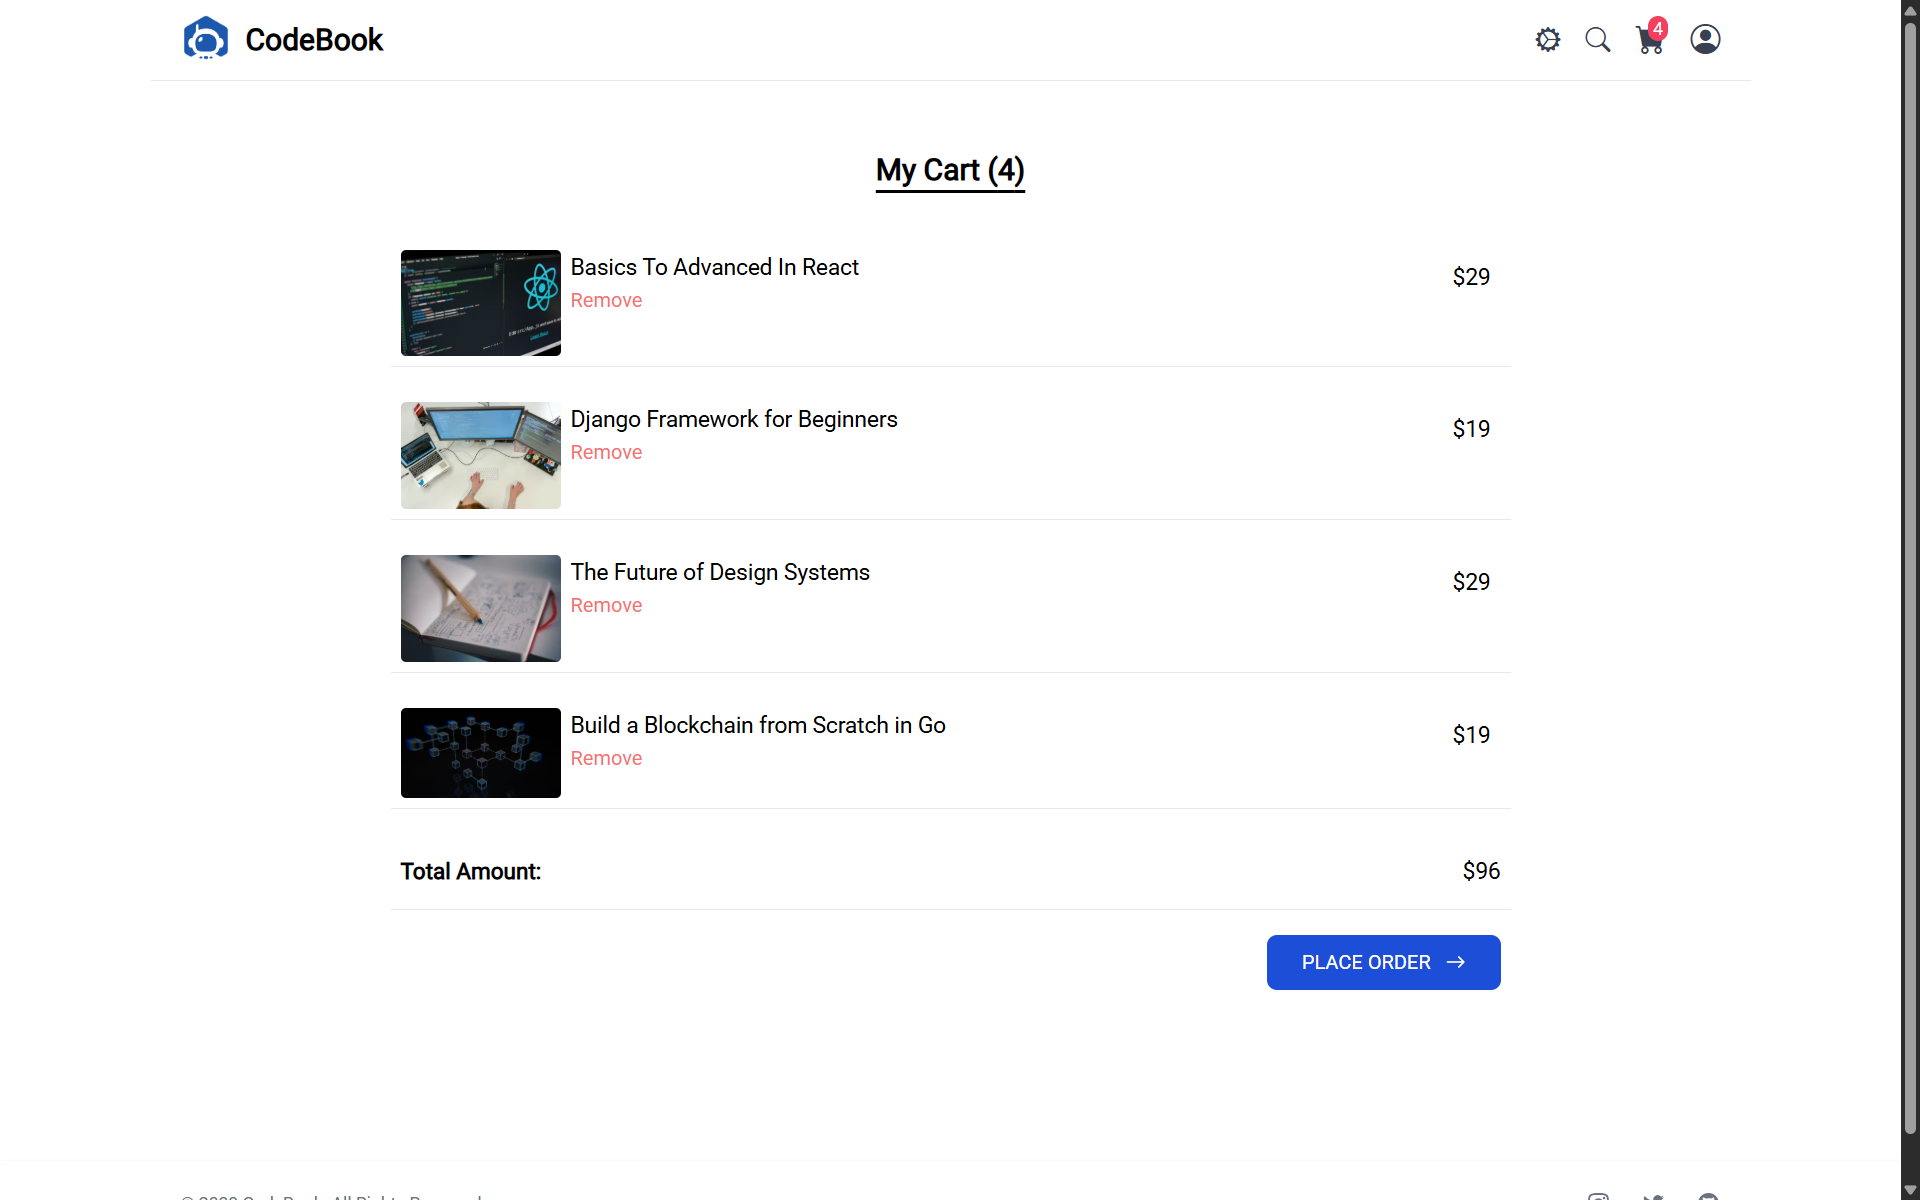
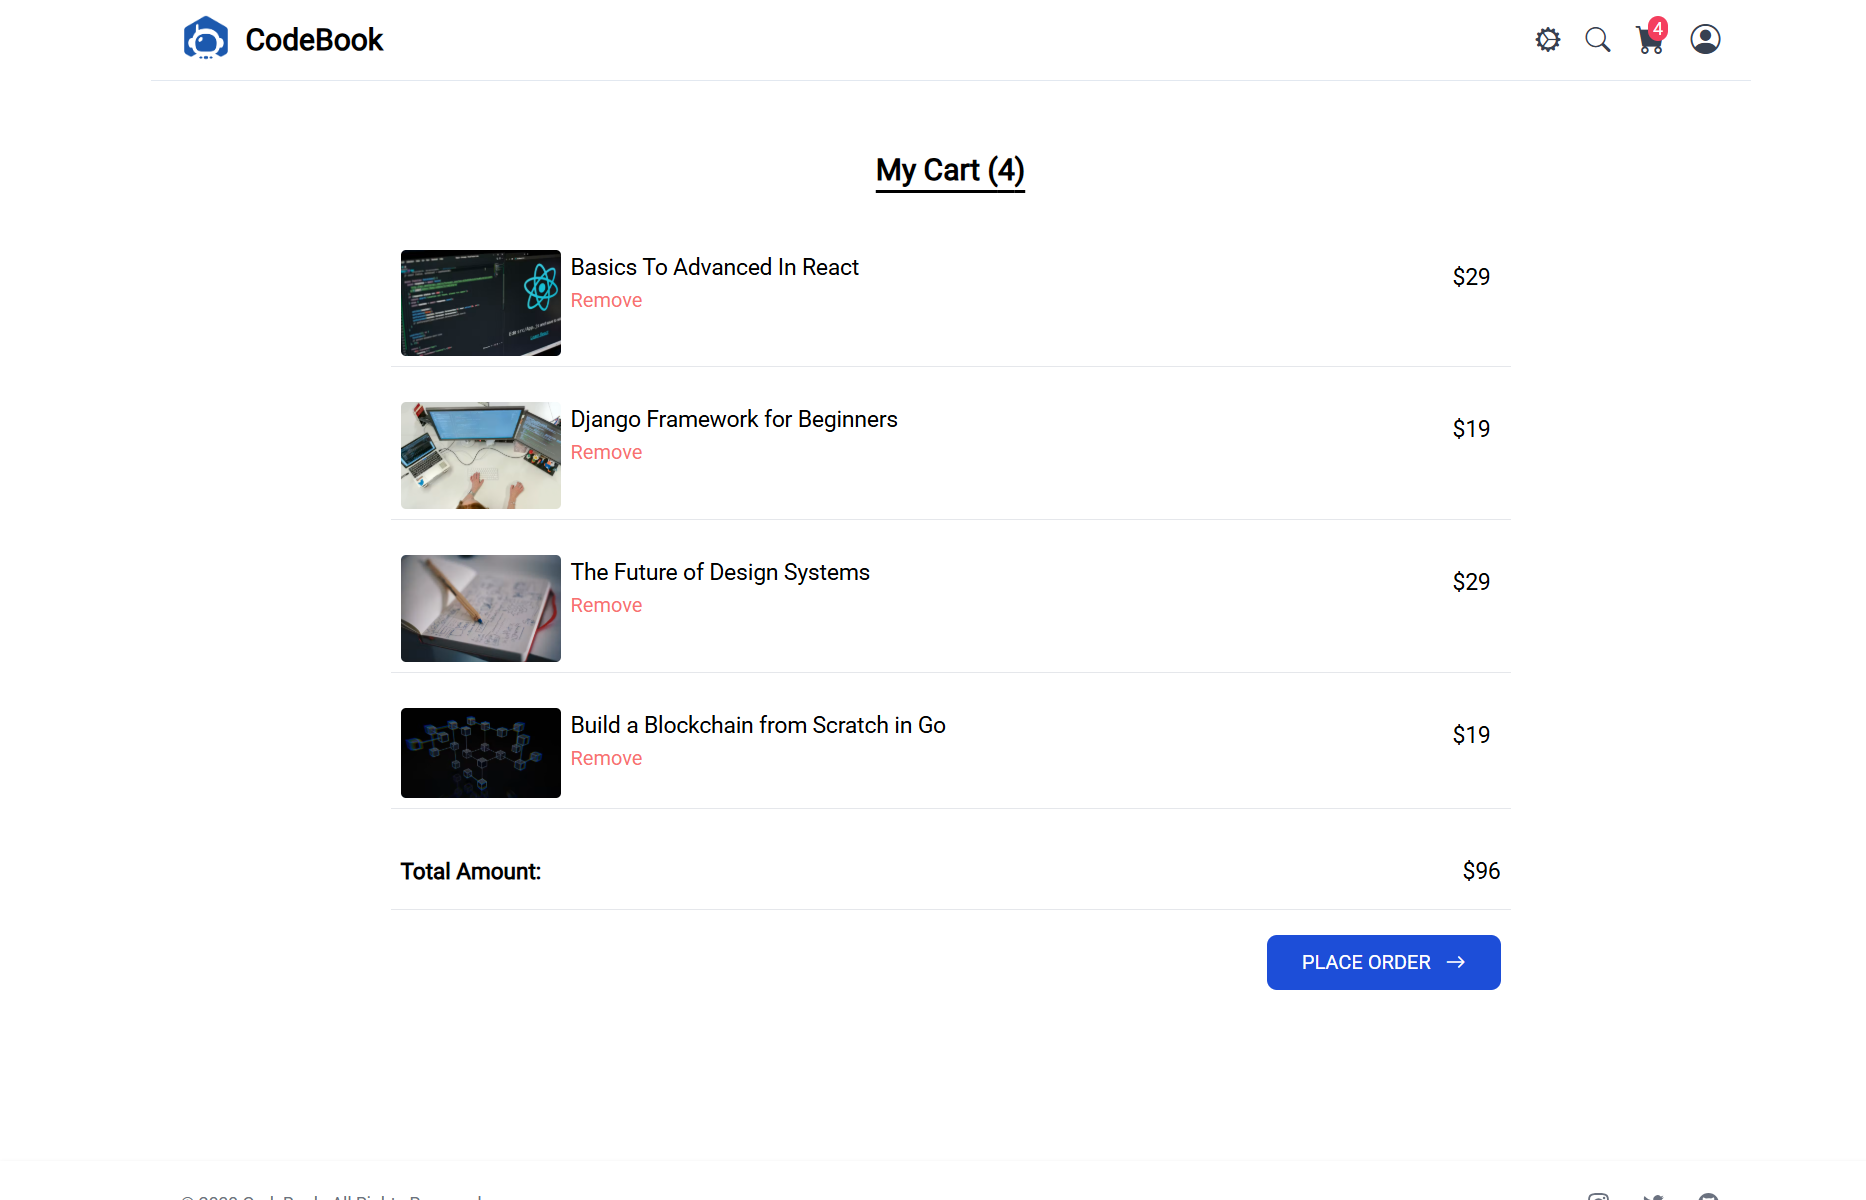
added screenshots

diff --git a/README.md b/README.md
@@ -2,22 +2,26 @@
 
 A modern online course marketplace built with React and Spring Boot. Browse courses, add to cart, and checkout with JWT-secured authentication. Features dark mode, responsive design, and guest login.
 
-[![Live Demo](https://img.shields.io/badge/Live_Demo-000000?style=for-the-badge&logo=vercel&logoColor=white)](https://codebookdev.vercel.app)
-[![React](https://img.shields.io/badge/React-20232A?style=for-the-badge&logo=react&logoColor=61DAFB)](https://react.dev)
-[![Tailwind CSS](https://img.shields.io/badge/Tailwind_CSS-38B2AC?style=for-the-badge&logo=tailwind-css&logoColor=white)](https://tailwindcss.com)
-[![Spring Boot](https://img.shields.io/badge/Spring_Boot-6DB33F?style=for-the-badge&logo=spring-boot&logoColor=white)](https://spring.io/projects/spring-boot)
 
-## 🚀 Live Demo
+## Live Demo
 
 **[https://codebookdev.vercel.app](https://codebookdev.vercel.app)**
 
-## 📸 Screenshots
 
-| Home Page                         | Product Detail                          | Cart                              | Dark Mode                         |
-| --------------------------------- | --------------------------------------- | --------------------------------- | --------------------------------- |
-| ![Home](public/docs/home.png) | ![Product](docs/screenshot-product.png) | ![Cart](docs/screenshot-cart.png) | ![Dark](docs/screenshot-dark.png) |
+## Screenshots
 
-## 🛠 Tech Stack
+<div>
+  <p><strong>Home Page</strong></p>
+  <img src="public/docs/home.png" alt="Home Page" width="600"/> 
+
+  <p><strong>Product Detail</strong></p>
+  <img src="public/docs/products.png" alt="Product Detail" width="600"/> 
+
+  <p><strong>Cart</strong></p>
+  <img src="public/docs/cart.png" alt="Cart" width="600"/> 
+</div>
+
+## Tech Stack
 
 - **React 18** with functional components and hooks
 - **React Router v6** for client-side routing
@@ -26,7 +30,7 @@ A modern online course marketplace built with React and Spring Boot. Browse cour
 - **react-toastify** for notifications
 - **Vercel** for deployment
 
-## 🏗 Component Architecture
+## Component Architecture
 
 ```
 App
@@ -44,7 +48,7 @@ App
     └── FilterContext
 ```
 
-## ✨ Features
+## Features
 
 - **Product Catalog:** Browse all courses with search and category filters
 - **Featured Section:** Curated courses on homepage
@@ -55,7 +59,7 @@ App
 - **Responsive Design:** Works on desktop, tablet, and mobile
 - **Toast Notifications:** Success/error feedback for user actions
 
-## 🧠 Why Context API over Redux?
+## Why Context API over Redux?
 
 For this application's scale (3 global states: auth, cart, filters), Context API with `useReducer` provides:
 
@@ -63,7 +67,7 @@ For this application's scale (3 global states: auth, cart, filters), Context API
 - **Built-in** — No additional dependencies
 - **Sufficient performance** — No complex state interactions requiring Redux middleware
 
-## 🚀 Getting Started
+## Getting Started
 
 ### Prerequisites
 
@@ -97,36 +101,14 @@ App opens at `http://localhost:3000`
 npm run build
 ```
 
-## 🧪 Testing
+## Testing
 
 ```bash
 npm test
 ```
 
-## 📊 Performance (Lighthouse)
-
-| Metric             | Score |
-| ------------------ | ----- |
-| **Performance**    | 92    |
-| **Accessibility**  | 100   |
-| **Best Practices** | 95    |
-| **SEO**            | 90    |
-
-![Lighthouse Score](docs/lighthouse.png)
-
-## 📱 Responsive Design
-
-Fully responsive across all screen sizes:
-
-- **Desktop:** 1200px+
-- **Tablet:** 768px - 1199px
-- **Mobile:** < 768px
-
-## 🔗 Related
+## Related
 
 - **Backend API:** [github.com/shyam050/codebook-backend](https://github.com/shyam050/codebook-backend)
 - **API Documentation:** Swagger UI at `/swagger-ui.html` on backend
 
-## 📄 License
-
-MIT
